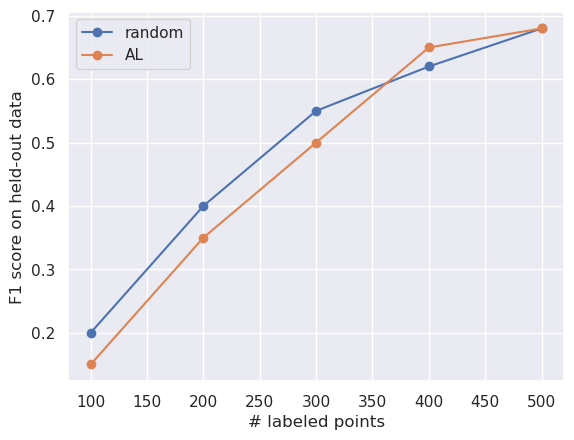
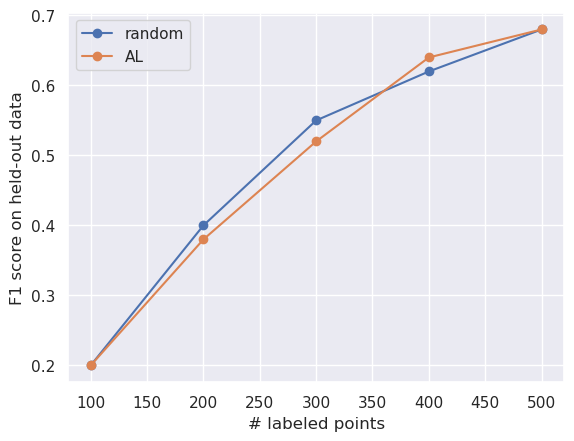
updates to images, removed some text

diff --git a/inactive_learning.html b/inactive_learning.html
@@ -146,21 +146,13 @@
     
 </div>
 
-<p>The F1-scores on the y-axis are reported over a held-out set, i.e., a test set with labels. This is <em>not available</em> in a real-world setting; because if you had labels for a significantly large test dataset, in a world where labeling is expensive you will use it (or part of it) for training, thus negating the need for using AL. The batch size in the plot’s setup is \(100\).</p>
+<p>The F1-scores on the y-axis are reported over a held-out set, i.e., a test set with labels. This is <em>not available</em> in a real-world setting; because if you had labels for a significantly large test dataset, in a world where labeling is expensive you will use it (or part of it) for training, thus negating the need for using AL. The batch size in the plot’s setup is \(100\) (which is not very important here - its just indicative).</p>
 
-<p>We can make the plot a little concise by just plotting the relative percentage improvement of the AL technique, i.e., \(100 \times (F1_{AL} - F1_{random})/F1_{random}\). This is shown below:</p>
-
-<!-- _includes/image.html -->
-<div class="image-wrapper">
-    
-        <img src="/assets/active_learning/rel_improve.png" alt="test" />
-    
-    
-        <p class="image-caption">AL performance as %age improvement over random.</p>
-    
-</div>
-
-<p>Note that as labeled data increases both curves converge to the same accuracy (or similar accuracies in practice). This is bound to happen since beyond a critical mass of points (collected via AL or randomly) the classifier has seen all patterns in the data, and will be able to generalize well.</p>
+<p>Note that:</p>
+<ul>
+  <li>The initial accuracies are identical - or in practice, quite similar. This is because the seed set is typically randomly picked (true in this illustration).</li>
+  <li>As labeled data increases, both curves converge to the same accuracy (or similar accuracies in practice). This is bound to happen since beyond a critical mass of points (collected via AL or randomly) the classifier has seen all patterns in the data, and will be able to generalize well.</li>
+</ul>
 
 <h2 id="what-do-we-see">What do we see?</h2>
 <p>A learning setup can vary wrt multiple things: the dataset, the classifier family (something traditional like <em>Random Forests</em> vs a recent one like <em>RoBERTa</em>) and the text representation (so many embeddings to pick from, e.g., <em>MPNet</em>, <em>USE</em>). You’re thrown into such a setup, and you have no labeled data, but you have read about this cool new AL technique - would you expect it to work?</p>
@@ -177,7 +169,7 @@
     
 </div>
 
-<p>And below are the results we observe. Each row is a classifier+representation combination. There are 5 heatmaps each corresponding to the number of labeled points, e.g., \(1000, 2000, ..., 5000\). Within a heatmap, each column represents a query strategy. Each cell shows the percentage relative improvement of a non-random query strategy over random sampling (this is why we have only \(4\) columns in each heatmap). The acronyms are declared in the previous image. The results are averaged over multiple datasets and trials.</p>
+<p>And below are the results we observe. Each row is a classifier+representation combination. There are 5 heatmaps each corresponding to the number of labeled points, e.g., \(1000, 2000, ..., 5000\). Within a heatmap, each column represents a query strategy. Each cell shows the <strong>percentage relative improvement</strong> of a non-random query strategy over random sampling (this is why we have only \(4\) columns in each heatmap). The acronyms are declared in the previous image. The results are averaged over multiple datasets and trials.</p>
 
 <!-- _includes/image.html -->
 <div class="image-wrapper">
